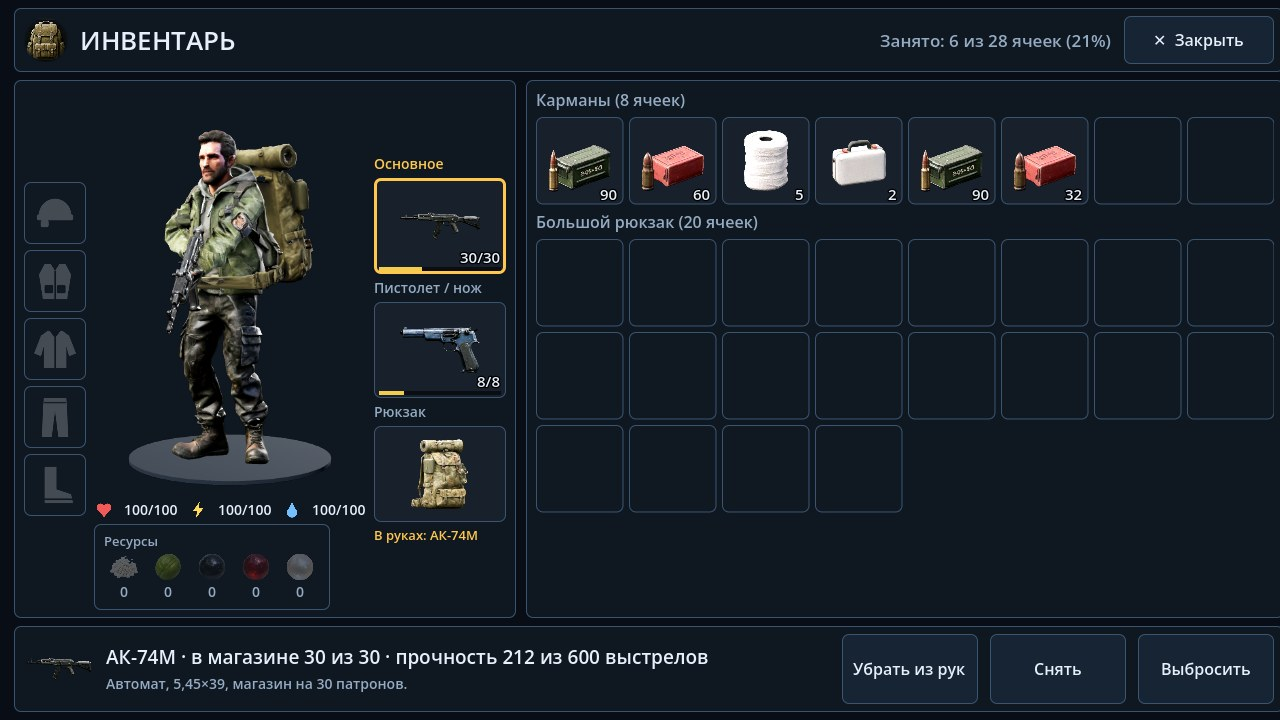
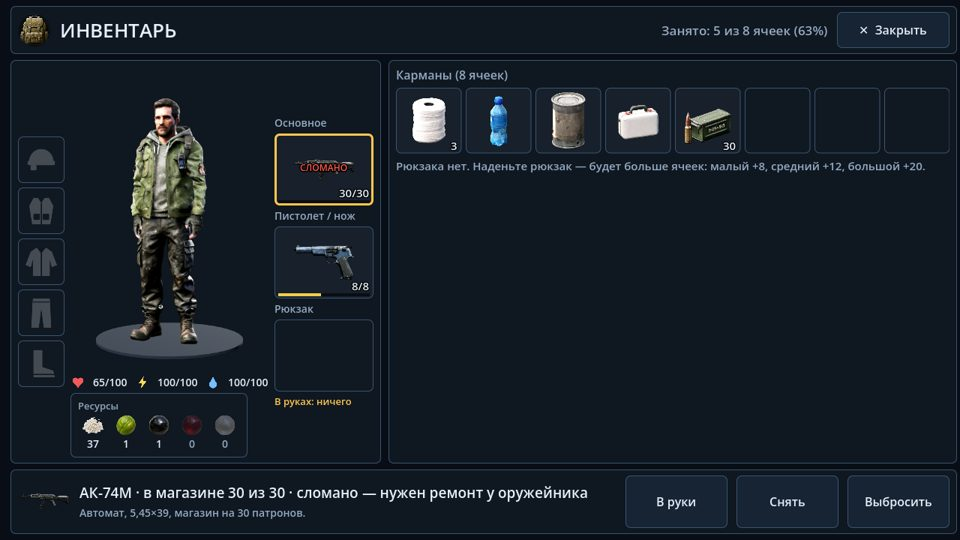
Стенд: мачете на старте; прочность оружия с ремонтом у оружейника; сборка 41
- прочность: ТТ 300, Beretta 400, мачете 400 ударов, SPAS-12 400, СВД 500, ВСС 500, FN FAL 700, MP5 800,
  АК-74М 1000, ПКП 1500; за 10 % — предупреждение; на нуле оружие сломано — остаётся в слоте, не стреляет
  и не рубит, на ячейке «СЛОМАНО»
- ремонт у оружейника: раздел «Ремонт» в торговле — всё изношенное оружие героя, цена по доле износа
  (fix — полный ремонт в споранах), «Починить» и «Починить всё»
- в начале игры мачете в кармане (носится в слоте пистолета)
- проверки inv: поломка без потери оружия, «СЛОМАНО» в инвентаре, сломанное не стреляет, ремонт и его цена,
  стрельба после ремонта; снимок раздела «Ремонт»

Claude-Session: https://claude.ai/code/session_012mFYCmtNnDBPzGE6DVCLqL

diff --git a/stand/docs/WORLD.md b/stand/docs/WORLD.md
@@ -63,7 +63,8 @@
   поленница и колода.
 - Ящики (модель Tripo) — хранилища на 12 ячеек: кнопка «Постройка» ставит ящик перед героем (не в стену),
   в меню — «Убрать ящик». Ящики сохраняются. В начале игры в горнице стоит один пустой ящик под свои вещи.
-- **Начало игры: у героя только пистолет ТТ** с полным магазином и 60 патронов в кармане, плюс бинты, вода и
+- **Начало игры: у героя пистолет ТТ** с полным магазином, 60 патронов и мачете в кармане (мачете носится в слоте
+  пистолета — поменять в инвентаре), плюс бинты, вода и
   тушёнка. Остальное оружие покупается у оружейника. (Сохранения прежних сборок не подходят — игра начнётся
   заново: `SAVE_V` 7. Всё оружие сразу — на полигоне.)
 - Манекен во дворе справа от крыльца — фигура в рост человека из мешковины на стойке: на нём пробуют оружие.
@@ -186,11 +187,17 @@
   Товар и цены — `SHOP` в `world.gd`; цены пробные: пистолеты и мачете 6–10 споранов, MP5 24, SPAS-12 30, АК-74М 40,
   ВСС 50, FN FAL 55, СВД — 2 горошины, ПКП — 3; патроны 1–4 спорана за пачку. Продажи вещей оружейнику пока нет.
   ![магазин](shop.jpg)
-- **Прочность оружия** — сколько выстрелов (у мачете — ударов) оно выдержит: ТТ 150, Beretta 200, мачете 120,
-  SPAS-12 160, СВД 250, ВСС 300, FN FAL 400, MP5 500, АК-74М 600, ПКП 900 (`dur` в `items.gd`). Каждый выстрел и
-  удар снимает единицу. Видно только в инвентаре: полоска по низу ячейки (зелёная → жёлтая → красная) и строка в
-  карточке оружия «прочность 143 из 600 выстрелов». На нуле оружие ломается и пропадает из слота; патроны из
-  магазина возвращаются в карманы. Ремонта пока нет.
+- **Прочность оружия** — сколько выстрелов (у мачете — ударов) оно выдержит до ремонта: ТТ 300, Beretta 400,
+  мачете 400, SPAS-12 400, СВД 500, ВСС 500, FN FAL 700, MP5 800, АК-74М 1000, ПКП 1500 (`dur` в `items.gd`).
+  Каждый выстрел и удар снимает единицу; осталось 10 % — предупреждение. Видно в инвентаре: полоска по низу ячейки
+  (зелёная → жёлтая → красная) и строка в карточке «прочность 143 из 300 выстрелов». На нуле оружие **сломано**:
+  остаётся в слоте с патронами, на ячейке — «СЛОМАНО», но не стреляет и не рубит.
+- **Ремонт — у оружейника** («Говорить» → «Торговать» → «Ремонт»): всё изношенное оружие героя (в слотах, карманах,
+  рюкзаке) с прочностью и ценой; «Починить» — до полной прочности, «Починить всё». Платите спорами только за
+  изношенную часть: полный ремонт ТТ — 6, мачете — 4, Beretta — 8, MP5 — 12, SPAS-12 — 14, АК-74М — 18, ВСС — 22,
+  FN FAL — 24, СВД — 30, ПКП — 40 (`fix` в `items.gd`); ТТ на 150 из 300 — 3 спорана. Пока оружейник не куплен,
+  чинить негде.
+  ![ремонт у оружейника](repair.jpg)
   ![прочность в инвентаре](durability.jpg)
 
 ## Базовый компьютер (`core/world/base_pc.gd`, `base_state.gd`, `economy.gd`, `data/base_shop.json`)
